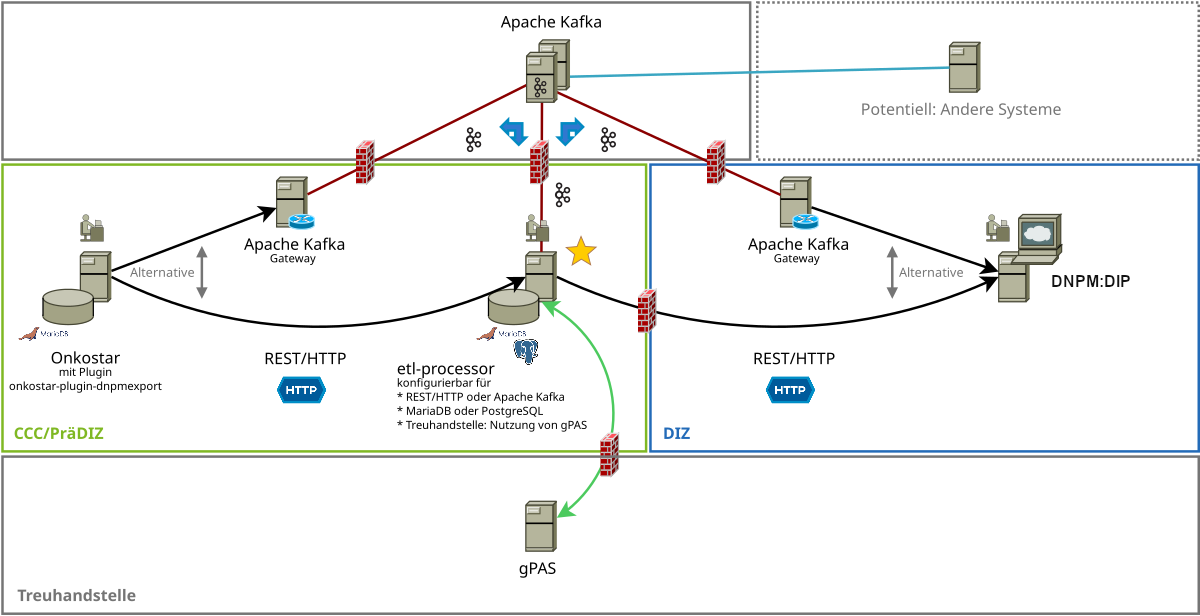
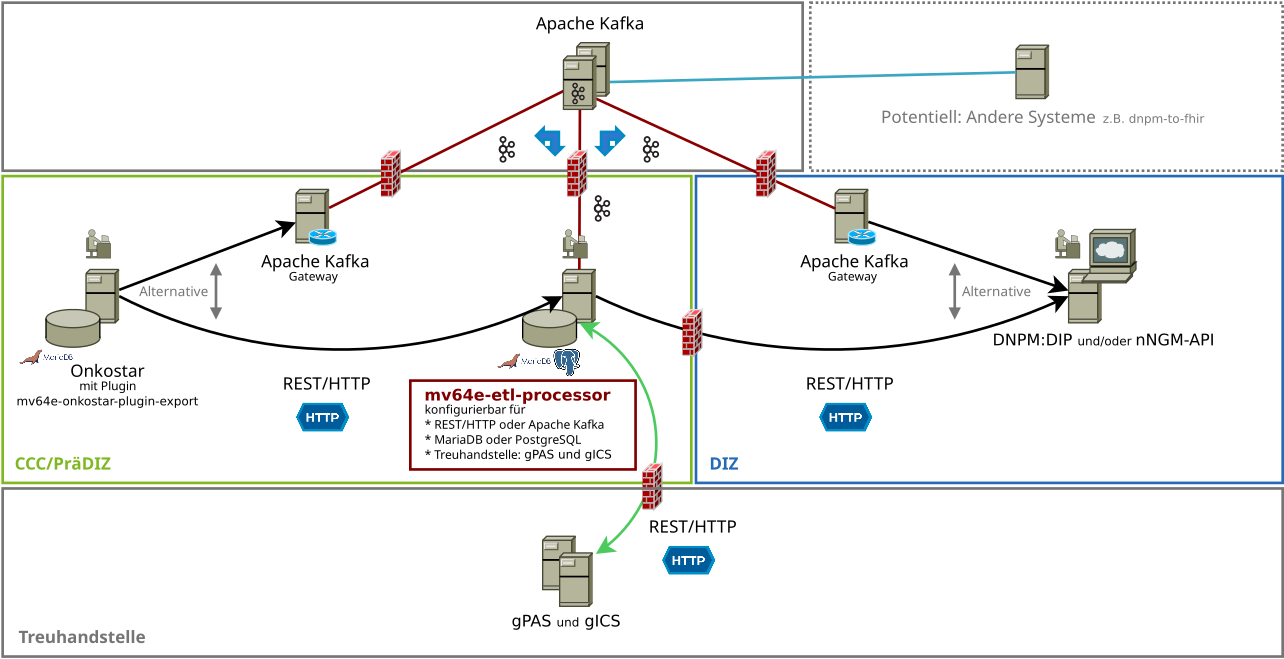
docs: update README.md and ETL diagram (#325)
Release-As: 0.18.0

diff --git a/README.md b/README.md
@@ -1,30 +1,27 @@
 # ETL-Processor für das MV gem. §64e und DNPM:DIP
 [![Run Tests](https://github.com/pcvolkmer/etl-processor/actions/workflows/test.yml/badge.svg)](https://github.com/pcvolkmer/etl-processor/actions/workflows/test.yml)
 
-Diese Anwendung pseudonymisiert/anonymisiert Daten im DNPM-Datenmodell 2.1 für das Modellvorhaben
-Genomsequenzierung nach §64e unter Beachtung des Consents und sendet sie an DNPM:DIP.
+ETL-Anwendung zur Pseudonymisierung von klinischen Daten für das Modellvorhaben Genomsequenzierung gem. §64e SGB V
+im DNPM-Datenmodell 2.1 unter Beachtung des Consents.
 
-## Einordnung innerhalb einer DNPM-ETL-Strecke
+Pseudonymisierte und mit Consent versehene Daten können sowohl an DNPM:DIP als auch an nNGM weitergeleitet werden.
+Eine Differenzierung anhand der Erkrankung und ICD10-Code ist dabei möglich.
+So können zum Beispiel alle Lungenfälle an nNGM, sonstige Fällen an DNPM:DIP weitergeleitet werden.
 
-Diese Anwendung erlaubt das Entgegennehmen von HTTP/REST-Anfragen aus dem Onkostar-Plugin
+Zur Pseudonymgenerierung und Consentverwaltung werden die [Greifswalder Tools gPAS und gICS](https://www.ths-greifswald.de/)
+unterstützt.
+
+Diese Anwendung erlaubt das Entgegennehmen von Datensetzen im DNPM-Datenmodell 2.1 aus dem Onkostar-Plugin
 **[mv64e-onkostar-plugin-export](https://github.com/pcvolkmer/mv64e-onkostar-plugin-export)**.
 
-Der Inhalt einer Anfrage, wenn ein MTB-File, wird pseudonymisiert und auf Duplikate geprüft.
-Duplikate werden verworfen, Änderungen werden weitergeleitet.
-
-Löschanfragen werden immer als Löschanfrage an DNPM:DIP weitergeleitet.
-
-Zudem ist eine minimalistische Weboberfläche integriert, die einen Einblick in den aktuellen Zustand der Anwendung gewährt.
-
 ![Modell DNPM-ETL-Strecke](docs/etl.png)
+
+## Wichtige Änderungen in den letzten Versionen
 
 ### 🔥 Wichtige Änderungen in Version 0.18
 
 Ab Version 0.18 kann diese Anwendung zur Datenausleitung über die nNGM-REST-API verwendet werden.
-Dazu ist eine Konfiguration des in dieser Version eingeführten [Routing-Mechanismus](#routed-rest) erforderlich
-
-Hier wird jeder `PatientRecord`, dessen (letzte) Diagnose einen ICD-10-Code beginnend mit `C34` und beliebiger Endung hat,
-nicht über den Standard-Weg versendet, sondern an den für nNGM konfigurierten API-Endpunkt.
+Dazu kann auch die Konfiguration des in dieser Version eingeführten [Routing-Mechanismus](#routed-rest) verwendet werden.
 
 ### 🔥 Wichtige Änderungen in Version 0.17
 
